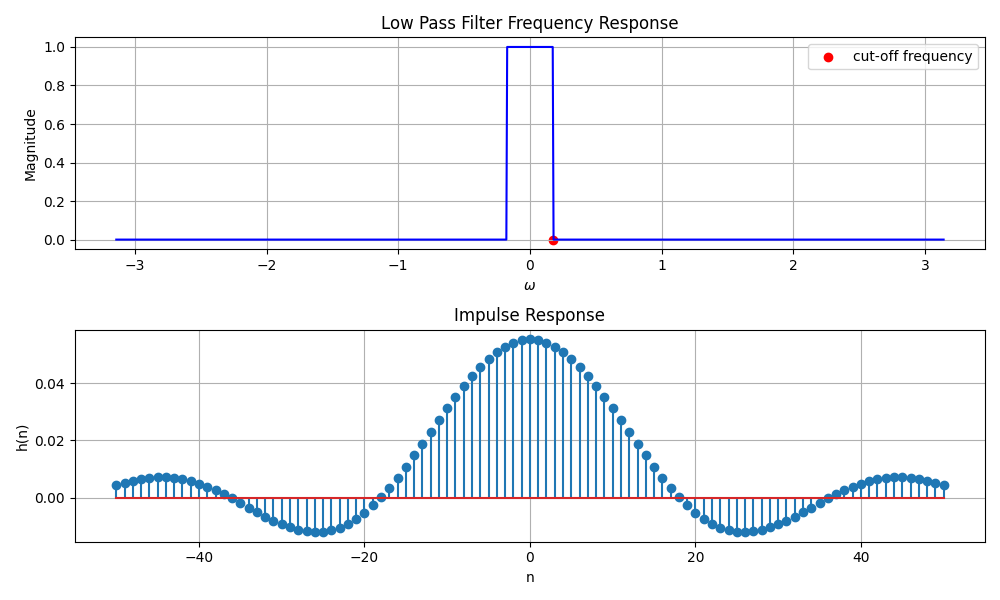
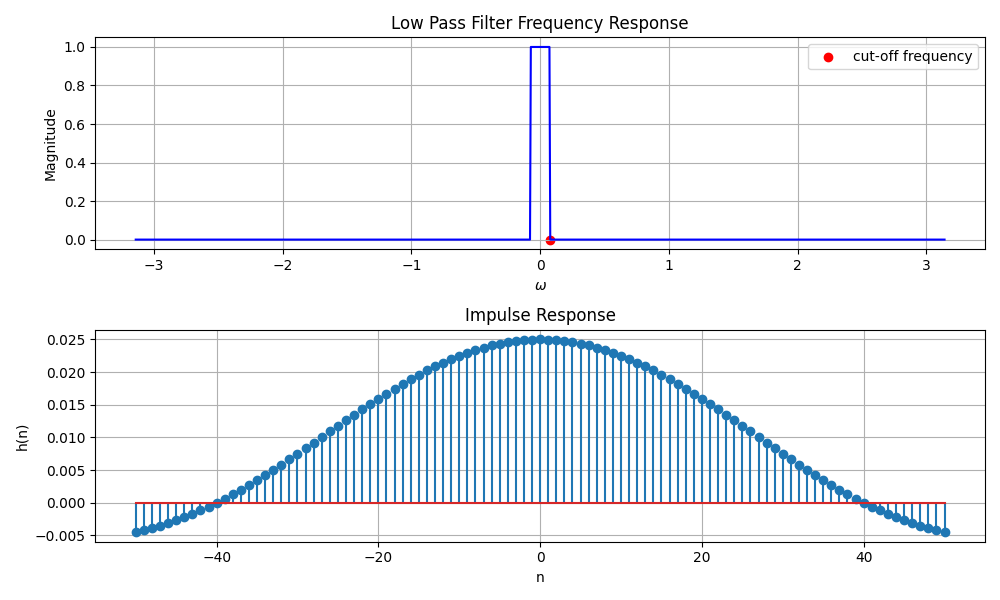
Add files via upload

diff --git a/filter_design/codes/6.py b/filter_design/codes/6.py
@@ -3,14 +3,14 @@ import matplotlib.pyplot as plt
 from scipy import signal
 
 # Define the cutoff frequency
-wc = 0.0553 * np.pi
+wc = 0.025 * np.pi
 
 # Create a frequency vector
 w = np.linspace(-np.pi, np.pi, 1000)
 
 # Define the magnitude response
 magnitude_response = np.zeros_like(w)
-magnitude_response[np.abs(w) <= wc] = 1
+magnitude_response[np.abs(w) <= wc] = 1   
 
 # Compute the phase response (it's zero for simplicity)
 phase_response = np.zeros_like(w)
@@ -35,7 +35,7 @@ n = np.arange(-50, 51)
 impulse_response = np.zeros_like(n, dtype=float)
 for i, ni in enumerate(n):
     if ni == 0:
-        impulse_response[i] = wc / np.pi
+        impulse_response[i] = wc / np.pi  #since it ow comes in denomenator
     else:
         impulse_response[i] = np.sin(wc * ni) / (ni * np.pi)
 
@@ -51,3 +51,4 @@ plt.grid()
 
 plt.tight_layout()
 plt.savefig("../figs/6.png")
+plt.show()

diff --git a/filter_design/main.tex b/filter_design/main.tex
@@ -276,7 +276,7 @@ The lowpass filter has a passband frequency $\omega_l$ and transition band $\Del
 The stopband tolerance is $\delta=0.15$.The cutoff-frequency is given by :
 \begin{align}
     \omega_{l} &= \frac{B}{2}\\
-                &= 0.025\pi
+                &= 0.0553
 \end{align}
 \begin{figure}[H]
 \centering

diff --git a/filter_design/tables/1.tex b/filter_design/tables/1.tex
@@ -11,7 +11,7 @@
     \hline
     $N$ & 4 \\ % Row 4
     \hline
-    $c_4\brak{x}$ & $8x^4 + 8x^2 + 1$\\
+    $c_4\brak{x}$ & $8x^4 - 8x^2 + 1$\\
     \hline
     \end{tabular}}
     \caption{Parameter Table} % Table caption
